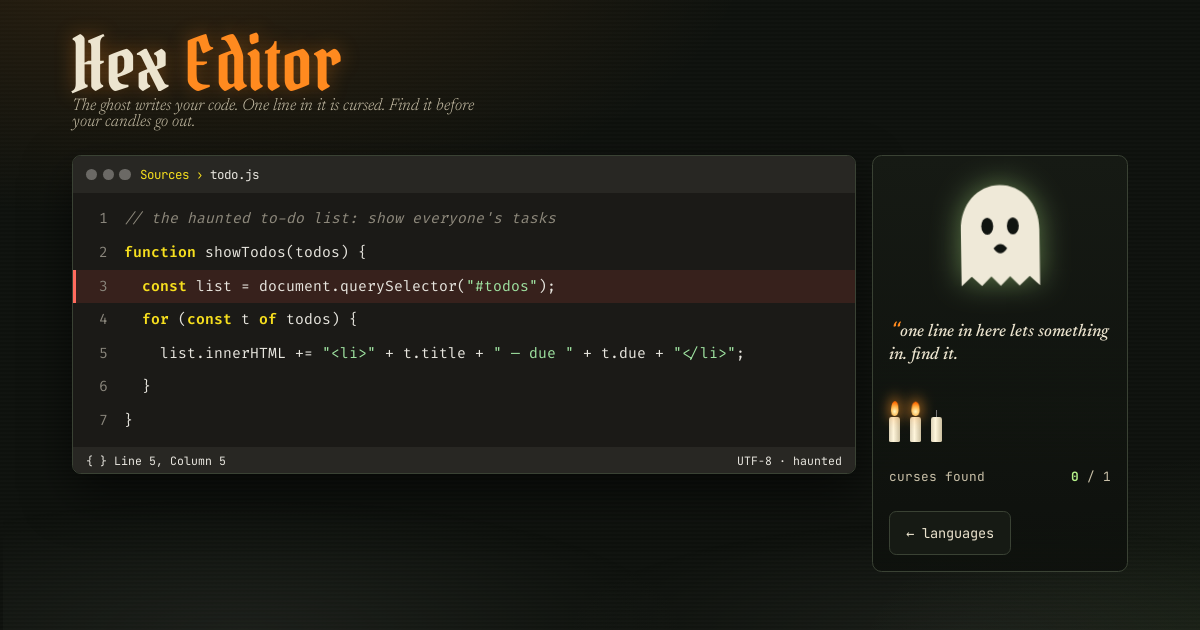
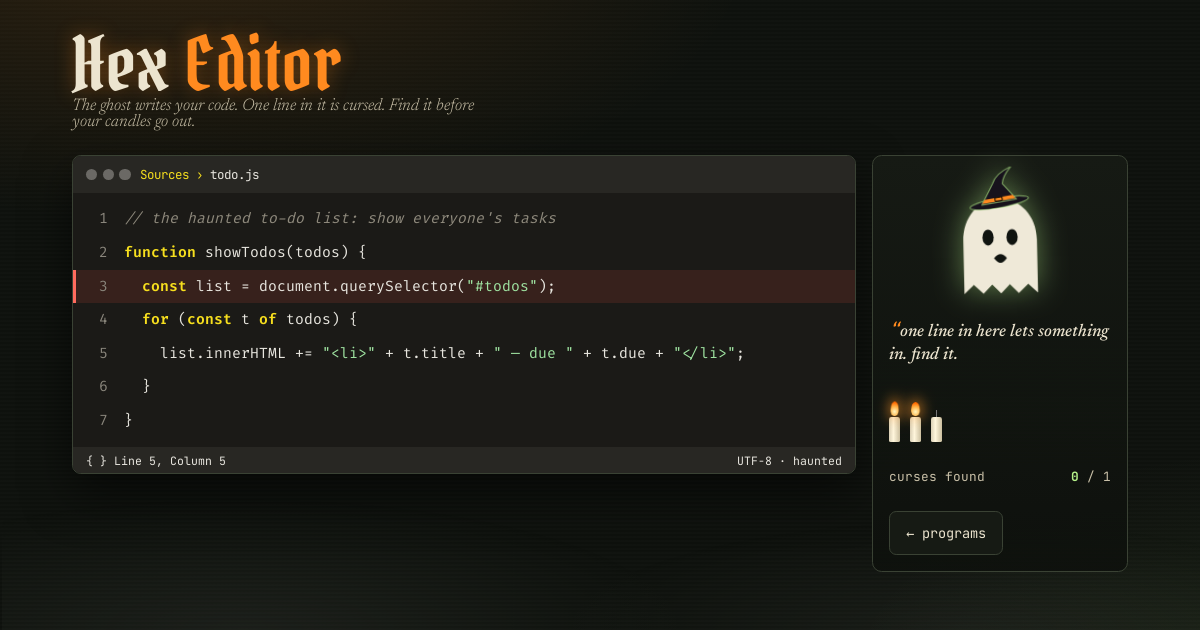
hex-editor: the ghost wears a witch hat (heks = witch in Dutch), hops when you catch a curse; popup stays inside the editor; new share image

Changed region(s): [[0.8017, 0.2714, 0.8942, 0.4825], [0.7708, 0.8444, 0.8325, 0.8746]]

diff --git a/apps/hex-editor/index.html b/apps/hex-editor/index.html
@@ -104,11 +104,14 @@ h1 b{color:var(--pump);font-weight:400}
 /* the ghost */
 .side{display:flex;flex-direction:column;gap:.8rem;padding:1rem;border:1px solid var(--line);border-radius:.6rem;background:linear-gradient(180deg,var(--ink2),rgba(14,17,13,.9))}
 .ghostbox{display:grid;place-items:center;height:8.5rem}
-.ghost{width:6.4rem;height:auto;filter:drop-shadow(0 0 .9rem rgba(182,242,138,.45));animation:float 3.2s ease-in-out infinite}
+.ghost{width:6rem;height:auto;filter:drop-shadow(0 0 .9rem rgba(182,242,138,.45));animation:float 3.2s ease-in-out infinite}
 @keyframes float{50%{transform:translateY(-.5rem) rotate(-2deg)}}
 .ghost .mouth{transition:d .2s}
 .ghost.grin .mouth{d:path("M44 84 Q60 100 76 84 Q60 92 44 84Z")}
 .ghost.hurt{animation:hurt .5s}
+.ghost .hat{transform-box:fill-box;transform-origin:50% 100%}
+.ghost.hurt .hat{animation:hatpop .5s}
+@keyframes hatpop{40%{translate:0 -7px;rotate:-8deg}}
 @keyframes hurt{25%{transform:translateX(-6px) rotate(-6deg)}75%{transform:translateX(6px) rotate(6deg)}}
 .ghost.gone{animation:gone 1.4s forwards}
 @keyframes gone{to{transform:translateY(-4rem) scale(.7);opacity:0}}
@@ -154,13 +157,13 @@ body.flicker .wrap{animation:flk .45s steps(2)}
 .lang.auto .ic{font-size:1.4rem}
 .ln.ro{cursor:default}
 .ln.ro:not(.hit):not(.was-miss):hover{background:transparent}
-.acpop{list-style:none;margin:.2rem 0 .5rem calc(3rem + var(--col,0) * 1ch);padding:.25rem;max-width:min(40rem,calc(100% - 3.6rem));background:var(--bg);color:var(--fg);border:1px solid var(--gut);border-radius:.3rem;box-shadow:0 .7rem 1.6rem rgba(0,0,0,.5);font-family:var(--font);font-size:var(--fs);line-height:1.35;animation:rise .18s}
+.acpop{--ml:min(calc(3rem + var(--col,0) * 1ch),35%);list-style:none;margin:.2rem 0 .5rem var(--ml);padding:.25rem;max-width:min(40rem,calc(100% - var(--ml) - .8rem));background:var(--bg);color:var(--fg);border:1px solid var(--gut);border-radius:.3rem;box-shadow:0 .7rem 1.6rem rgba(0,0,0,.5);font-family:var(--font);font-size:var(--fs);line-height:1.35;animation:rise .18s}
 .acpop:focus{outline:none}
 .acpop:focus-visible{outline:3px solid var(--pump2);outline-offset:2px}
 .acpop li{display:flex;align-items:center;gap:.6rem;min-height:2.75rem;padding:.3rem .6rem;border-radius:.2rem;cursor:pointer;white-space:pre-wrap;overflow-wrap:anywhere}
 .acpop li[aria-selected="true"]{background:rgba(255,138,31,.24);box-shadow:inset 3px 0 0 var(--pump)}
 .acpop .k{flex:none;width:1.4rem;height:1.4rem;display:grid;place-items:center;border-radius:.2rem;background:var(--kw);color:var(--bg);font-size:.75rem;font-weight:700;font-family:var(--mono)}
-.acpop .t{flex:1;min-width:0}
+.acpop .ot{flex:1;min-width:0}
 .acpop .tg{flex:none;font-family:var(--mono);font-size:.72rem;padding:.1rem .5rem;border-radius:1rem;border:1px solid currentColor;white-space:nowrap}
 .acall{list-style:none;margin:.9rem 0 0;padding:0;display:grid;gap:.55rem;max-width:52rem}
 .acall li{display:grid;grid-template-columns:1.6rem minmax(0,1fr);gap:.5rem;padding:.6rem .75rem;border-radius:.45rem;border:1px solid var(--line);background:var(--ink)}
@@ -177,7 +180,7 @@ body.flicker .wrap{animation:flk .45s steps(2)}
   .acpop{margin-left:.6rem;max-width:calc(100% - 1.2rem)}
   #ide{grid-template-columns:minmax(0,1fr)}
   .side{position:static;order:-1;display:grid;grid-template-columns:5.5rem 1fr;grid-template-rows:auto auto auto;column-gap:.9rem;row-gap:.5rem;padding:.8rem}
-  .ghostbox{grid-row:1/3;height:5.5rem}.ghost{width:4.4rem}
+  .ghostbox{grid-row:1/3;height:5.5rem}.ghost{width:3.9rem}
   .say{min-height:0;font-size:1rem}
   .candles{height:2rem}
   .side .meta,.side .row{grid-column:1/-1}
@@ -215,11 +218,18 @@ body.flicker .wrap{animation:flk .45s steps(2)}
       </div>
       <aside class="side" aria-label="The ghost">
         <div class="ghostbox">
-          <svg class="ghost" id="ghost" viewBox="0 0 120 140" aria-hidden="true">
+          <svg class="ghost" id="ghost" viewBox="0 -30 120 170" aria-hidden="true">
             <path d="M14 62C14 32 34 10 60 10S106 32 106 62V128L94 117 82 128 71 117 60 128 49 117 38 128 26 117 14 128Z" fill="#efe9d8"/>
             <ellipse cx="45" cy="58" rx="7" ry="10" fill="#101410"/>
             <ellipse cx="75" cy="58" rx="7" ry="10" fill="#101410"/>
             <path class="mouth" d="M52 84 Q60 74 68 84 Q60 96 52 84Z" fill="#101410"/>
+            <!-- heks = witch in Dutch (marci): so the ghost wears a witch hat -->
+            <g class="hat"><g transform="rotate(-9 60 15)">
+              <ellipse cx="60" cy="15" rx="37" ry="6" fill="#17121c" stroke="rgba(182,242,138,.55)" stroke-width="1.5"/>
+              <path d="M38 14 L56 -10 Q62 -22 82 -27 Q70 -17 68 -8 L82 14Z" fill="#17121c" stroke="rgba(182,242,138,.55)" stroke-width="1.5" stroke-linejoin="round"/>
+              <path d="M42.5 8 L78.2 8 L81 12.6 L39 12.6Z" fill="#ff8a1f"/>
+              <rect x="55.5" y="8" width="9" height="4.4" rx=".8" fill="none" stroke="#1a0f02" stroke-width="1.4"/>
+            </g></g>
           </svg>
         </div>
         <p class="say" id="say" aria-live="polite"></p>
@@ -559,7 +569,7 @@ function acPop(){if(!ac||ac.popped)return;ac.popped=true;var R=ac.R,line=documen
   ul.className='acpop';ul.id='acPop';ul.setAttribute('role','listbox');ul.tabIndex=0;ul.style.setProperty('--col',Math.min(R.pre.length,28));
   ul.setAttribute('aria-label','The ghost suggests how to finish '+(R.pre.trim()?'the line '+R.pre.trim():'the next line')+'. Arrow keys, then Enter, or press 1 to '+ac.opts.length+'.');
   ac.opts.forEach(function(o,k){var x=document.createElement('li');x.id='aco'+k;x.setAttribute('role','option');
-    x.innerHTML='<span class="k" aria-hidden="true">'+(k+1)+'</span><span class="t">'+esc(o.t)+'</span>'+(o.tag?'<span class="tg">★ '+esc(o.tag)+'</span>':'');
+    x.innerHTML='<span class="k" aria-hidden="true">'+(k+1)+'</span><span class="ot">'+esc(o.t)+'</span>'+(o.tag?'<span class="tg">★ '+esc(o.tag)+'</span>':'');
     x.addEventListener('click',function(){acPick(k);});x.addEventListener('mousemove',function(){if(ac.sel!==k)acSel(k);});ul.appendChild(x);});
   ul.addEventListener('keydown',function(e){var n=ac.opts.length;
     if(e.key==='ArrowDown'){e.preventDefault();acSel((ac.sel+1)%n);}

diff --git a/apps/hex-editor/notes.md b/apps/hex-editor/notes.md
@@ -15,6 +15,8 @@ A ghost "writes" a small program (typewriter animation) and hides a classic secu
 - 2026-09-26: HAUNTED AUTOCOMPLETE (marci: "autocomplete that gives wrong completion", "dangerous options"), 7th menu card. 8 half-written lines (py/js/c/cs: SQL, innerHTML, strcpy, md5 passwords, Math.random sessions, exec, BinaryFormatter, verify=False); the ghost types, a listbox pops up with 3 completions. Cursed ones wear tempting tags (★ recommended / fixes the error), the safe one has none; options + rounds are shuffled. Safe pick +2 candy, cursed = candle out; 3 out ends the run. After each pick: what people say + all three with verdicts. Summary at the end; best in SAVE.best.auto {candy,lost,safe,of}. Keys: ↑↓, Enter/Tab/Space, 1-3, or click.
   - Recall desktop has a ghost shortcut (hex-editor.lnk, Haunted files) that opens /hex-editor/?bare=1 in a window.
 
+- 2026-09-26: the ghost wears a witch hat (heks = witch in Dutch, marci's pun); it hops when you catch a curse. Share image re-shot with the hat. Autocomplete popup stays inside the editor on long lines.
+
 ## issues
 - Scroll with into(el) (window.scrollTo), never scrollIntoView: the app also runs in an iframe on the Recall desktop, and scrollIntoView scrolls the parent page too.
 - Nothing is ever executed: the programs are display-only data (LANGS in the page script). Keep it that way. Never eval user text or load code from URLs.
@@ -25,4 +27,4 @@ A ghost "writes" a small program (typewriter animation) and hides a classic secu
 
 ## todos
 - More autocomplete lines (C++ / BASIC skins aren't used yet); a daily ghost (same 8 for everyone that day).
-- More programs per language (random pick), a shared candy leaderboard (supabase), a witch hat for the ghost (heks).
+- More programs per language (random pick), a shared candy leaderboard (supabase).
